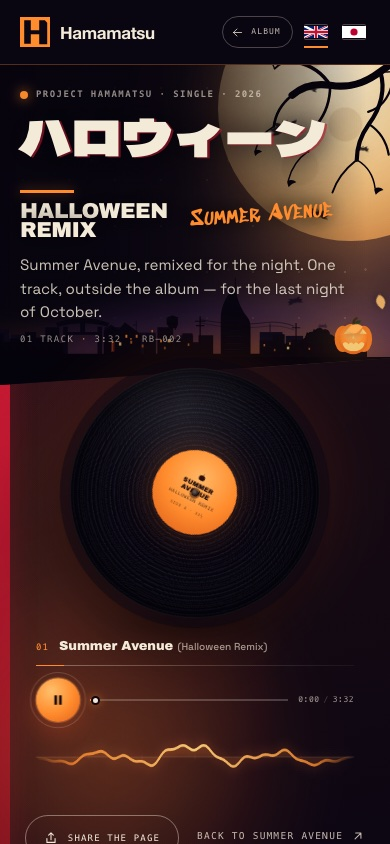
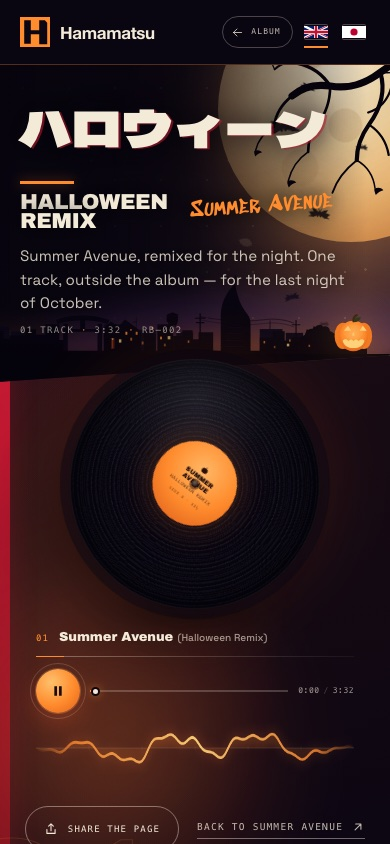
Refine Halloween player controls
Remove the hero kicker, make the vinyl disc a play/pause button, and refresh the page documentation.

diff --git a/halloween/index.html b/halloween/index.html
@@ -76,7 +76,7 @@
   <link href="https://fonts.googleapis.com/css2?family=Archivo+Black&amp;family=Dela+Gothic+One&amp;family=Noto+Sans+JP:wght@400;500;700&amp;family=Space+Grotesk:wght@400;500;600;700&amp;family=Sedgwick+Ave+Display&amp;display=swap" rel="stylesheet">
 
   <link rel="stylesheet" href="/hamamatsu/assets/css/styles.css?v=layout-10">
-  <link rel="stylesheet" href="/hamamatsu/assets/css/halloween.css?v=10">
+  <link rel="stylesheet" href="/hamamatsu/assets/css/halloween.css?v=11">
 
   <script type="application/ld+json">
   {
@@ -280,10 +280,6 @@
 
       <div class="container hero-poster__inner hw-hero__inner">
         <div class="hero-poster__copy hw-copy">
-          <p class="hero-poster__kicker hw-kicker">
-            <span class="hero-poster__kicker-dot hw-kicker__dot" aria-hidden="true"></span>
-            <span data-i18n="halloween.kicker">PROJECT HAMAMATSU · SINGLE · 2026</span>
-          </p>
           <h1 class="hero-poster__title hw-title" id="hw-title">
             <span class="sr-only" lang="en">Summer Avenue (Halloween Remix)</span>
             <span class="hero-poster__jp hw-title__jp" lang="ja" aria-hidden="true">ハロウィーン</span>
@@ -297,10 +293,10 @@
         </div>
 
         <div class="hw-player" id="player" data-hw-player role="region" aria-labelledby="hw-player-title">
-          <div class="hw-deck" aria-hidden="true">
-            <span class="hw-deck__halo"></span>
-            <span class="hw-deck__shadow"></span>
-            <div class="hw-disc" data-hw-disc>
+          <button class="hw-deck" type="button" data-hw-toggle aria-label="Play the single" aria-pressed="false" data-i18n-attr="aria-label:halloween.playSingle">
+            <span class="hw-deck__halo" aria-hidden="true"></span>
+            <span class="hw-deck__shadow" aria-hidden="true"></span>
+            <span class="hw-disc" data-hw-disc aria-hidden="true">
               <span class="hw-disc__grooves"></span>
               <span class="hw-disc__label">
                 <span class="hw-disc__pumpkin"><svg viewBox="0 0 24 24" focusable="false" aria-hidden="true"><use href="#icon-pumpkin"/></svg></span>
@@ -309,8 +305,8 @@
                 <span class="hw-disc__side">SIDE A · 33⅓</span>
               </span>
               <span class="hw-disc__pin"></span>
-            </div>
-          </div>
+            </span>
+          </button>
 
           <div class="hw-readout">
             <div class="hw-readout__head">

diff --git a/assets/css/halloween.css b/assets/css/halloween.css
@@ -544,6 +544,22 @@
   display: grid;
   place-items: center;
   flex: none;
+  appearance: none;
+  -webkit-appearance: none;
+  border: 0;
+  border-radius: 50%;
+  padding: 0;
+  background: none;
+  color: inherit;
+  font: inherit;
+  cursor: pointer;
+  touch-action: manipulation;
+  -webkit-tap-highlight-color: transparent;
+}
+
+.hw-deck:focus-visible {
+  outline: 2px solid var(--hw-pumpkin);
+  outline-offset: 8px;
 }
 
 .hw-deck__halo {

diff --git a/README.md b/README.md
@@ -39,10 +39,10 @@ The official album site streams the full record in order, with a custom player, 
 **Summer Avenue (Halloween Remix)** is a one-off single, released outside the album. It has its own dark page at **[/hamamatsu/halloween](https://rbaranov.ch/hamamatsu/halloween)**, reached from the **Halloween** button in the album hero; the single page links back to the album and the album footer links to the single.
 
 - **Audio:** `assets/audio/singles/01-summer-avenue-halloween-remix.mp3` — 320 kbps MP3, 48 kHz stereo, 211.96 s (**3:32**).
-- **Player:** one track and one source, with no queue and no auto-advance. Play/pause, seek, mute/volume (remembered in `sa-volume`), Media Session metadata and position state, and a vinyl disc that turns only while playing. The readout is not a card: it is set directly into the poster, with only a hairline and the type for structure. A 132 BPM procedural oscilloscope trace pulses under the controls while playing, twitching wider on each beat and settling to a flat line when paused.
+- **Player:** one track and one source, with no queue and no auto-advance. Play/pause, seek, mute/volume (remembered in `sa-volume`), Media Session metadata and position state, and a vinyl disc that turns only while playing. A click or tap on the vinyl itself toggles playback. The readout is not a card: it is set directly into the poster, with only a hairline and the type for structure. A 132 BPM procedural oscilloscope trace pulses under the controls while playing, twitching wider on each beat and settling to a flat line when paused.
 - **Route:** `halloween/index.html` is served at `/hamamatsu/halloween`. The build copies the directory to `dist/halloween/`, and `vercel.json` maps both the clean and trailing-slash URLs to `/halloween/index.html`.
 - **Release sheet:** below the hero, a cover, the single's credits (format, catalog RB–002, runtime, source album) and links to the album and its lyrics.
-- **Share:** the **Share the page** action shares the canonical `/hamamatsu/halloween` URL and, where the browser's Web Share implementation supports files, attaches the 1254 px release cover as a JPEG. The cover is prefetched at load and on hover/focus so the native sheet opens immediately; the link is included in the share text as well as the URL field. If a target rejects the URL field alongside files, the share retries with the file and text. Browsers without file sharing fall back to a link-only share, and browsers without native sharing copy the link; standard toasts. Playback lives only in the player readout; there is no separate hero play/pause button.
+- **Share:** the **Share the page** action shares the canonical `/hamamatsu/halloween` URL and, where the browser's Web Share implementation supports files, attaches the 1254 px release cover as a JPEG. The cover is prefetched at load and on hover/focus so the native sheet opens immediately; the link is included in the share text as well as the URL field. If a target rejects the URL field alongside files, the share retries with the file and text. Browsers without file sharing fall back to a link-only share, and browsers without native sharing copy the link; standard toasts. Playback lives in the player: the vinyl disc itself and the play button both toggle it; there is no separate hero play/pause button.
 - **Artwork:** the cover is generated from `tools/halloween-cover.html` at 1254, 800 and 512 px; the social card is generated from `tools/halloween-og.html`.
 
 ## Stack
@@ -208,7 +208,7 @@ The single is live at **https://rbaranov.ch/hamamatsu/halloween**. On Vercel, `s
 - Full keyboard support for the player, film, menu, and all actions.
 - `prefers-reduced-motion` disables the hero entrance, the interlude seal, and all reveals while keeping the full composition visible.
 - One semantic `H1` contains both the Japanese and English album title; decorative repeats are hidden from assistive technology. The Japanese title uses `lang="ja"` and Dela Gothic One with a full katakana/long-vowel set.
-- The Halloween page has one `H1` whose accessible name is the full release title; the large ハロウィーン / HALLOWEEN REMIX lockup is decorative and `aria-hidden`. The player is a labelled region with a visible track name, native range inputs and an `aria-valuetext` timeline, an `aria-pressed` play button, a mute state, a polite live status and Media Session metadata. The moon, bats, branch, skyline, pumpkins and disc are hidden from assistive technology; the cover has a described alt. `prefers-reduced-motion` stops the disc spin, bat drift, fog, moon reveal, section reveals, the oscilloscope animation (the trace stays static), the spider crawl and the falling leaves.
+- The Halloween page has one `H1` whose accessible name is the full release title; the large ハロウィーン / HALLOWEEN REMIX lockup is decorative and `aria-hidden`. The player is a labelled region with a visible track name, native range inputs and an `aria-valuetext` timeline, an `aria-pressed` play button, a mute state, a polite live status and Media Session metadata. The moon, bats, branch, skyline, pumpkins and the vinyl artwork (grooves and label) are hidden from assistive technology; the disc itself is an `aria-pressed` play/pause button with an accessible label, alongside the play button. The cover has a described alt. `prefers-reduced-motion` stops the disc spin, bat drift, fog, moon reveal, section reveals, the oscilloscope animation (the trace stays static), the spider crawl and the falling leaves.
 - Accessible track names include the visible number, Japanese title, English title, romanization, and duration.
 - The lyrics section uses native `<details>/<summary>` disclosures, one open song at a time, a 44 px index, visually hidden bilingual link names, and moves focus to the opened song's summary from the player shortcut. `#lyrics-01`–`#lyrics-11` deep links open the matching song and then clear their hash; in-page opens and the lyrics jump never write a hash, and a reload removes a legacy lyrics hash before it can anchor the page. All songs expand for print. Lyrics are marked `lang="ja"`. The current line is a visual highlight only (no live-region chatter); the icon-only **Follow the lyrics** button has no `aria-pressed`, no stored preference and no automatic following — it opens the active song and scrolls to the current line, with instant jumps under `prefers-reduced-motion`; the player's lyrics button does the same and focuses the opened summary. The menu preferences are native checkboxes with `role="switch"`, visible text labels, and the native checked state; the group is labelled from `menu.preferencesAria`. The Romaji latin / Romaji cyrillic switches stay available even when the tracklist lyrics switch is off, because the full lyrics page uses the same preferences. The romaji lines are real text with `lang="ja-Latn"` and the Cyrillic lines with `lang="ru"` (not CSS-generated content), so they are selectable and readable by assistive technology. The **Romaji latin** switch defaults to on and the **Romaji cyrillic** switch defaults to off; both are native checkboxes with `role="switch"` and stay enabled regardless of the tracklist lyrics switch. The inline current and next readings use the same `lang` attributes, and line changes scroll a clipped three-line track by one group with a 500 ms linear transition and no fade, promoting the incoming line to current/bold at the start of the scroll, while `prefers-reduced-motion: reduce` switches lines instantly. The active Japanese line and its Romaji and Cyrillic are bold but use a warm secondary ink; the track title stays... (line truncated to 2000 chars)
 - Play/pause states are reflected with `aria-pressed`, and track changes are announced politely.
